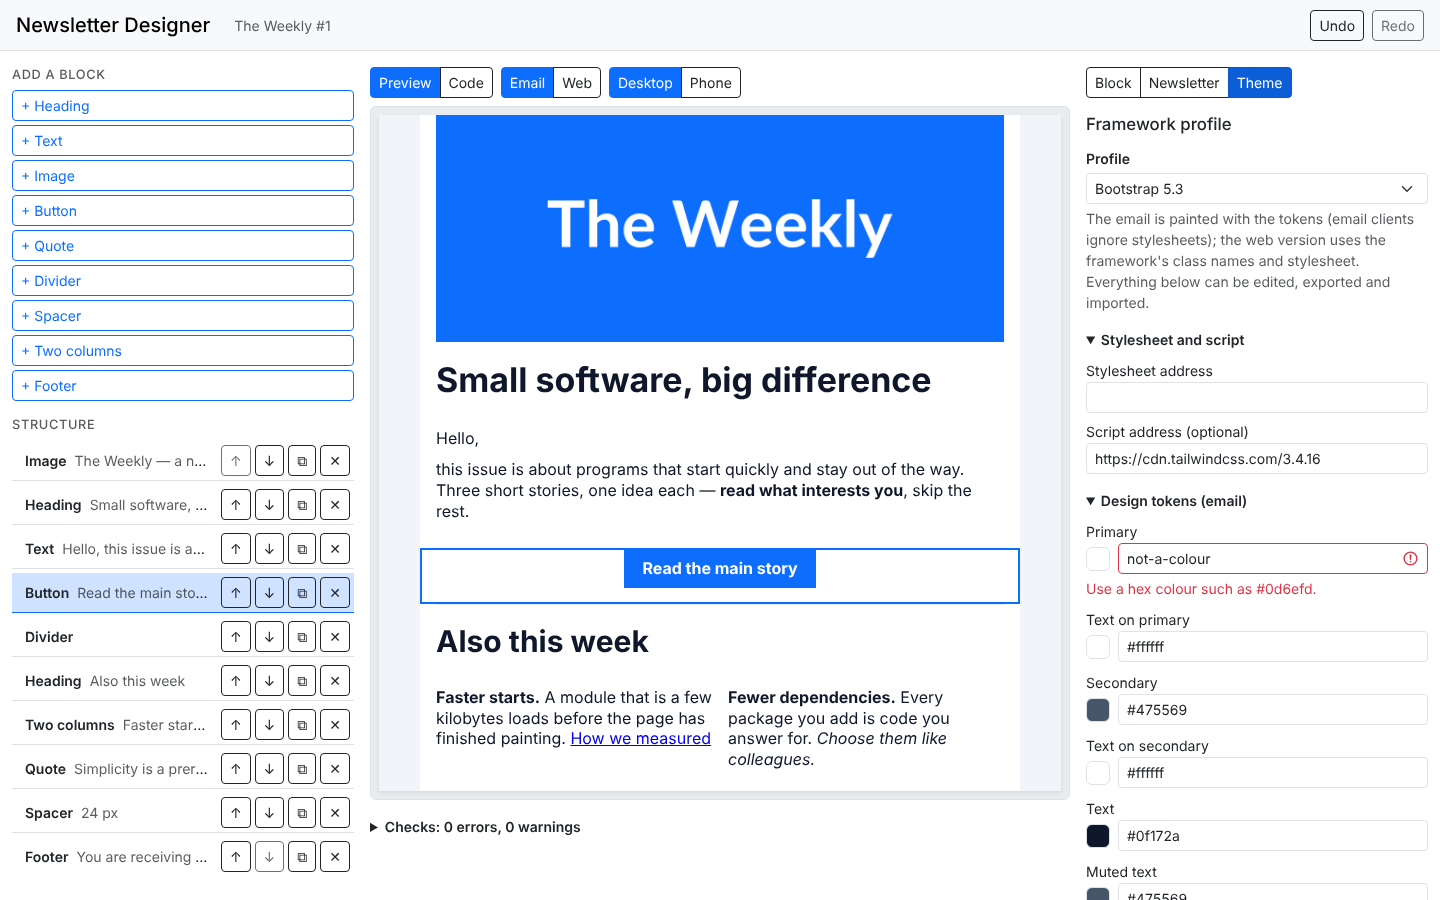
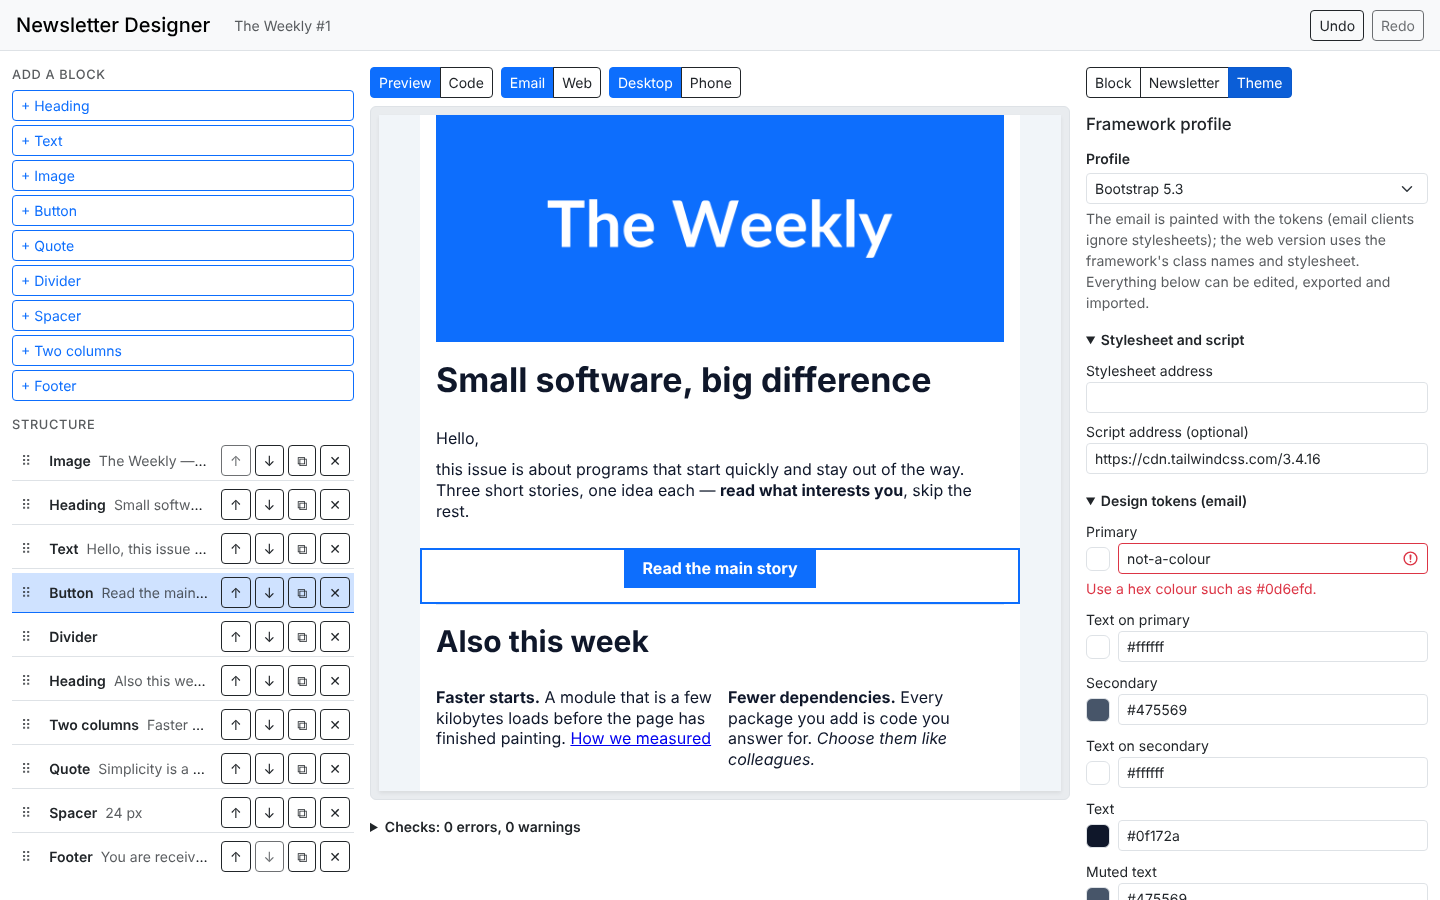
Drag a block of the structure list to another place
A handle at the left of each block: a press captures the pointer, a line shows where the block would drop, a ghost with its
name follows the pointer, Escape cancels, and the move is one undo step.  Where it drops is FSharp.Graphics.Interact (the
slot under the pointer, before / after / into by where in the slot the pointer is); the edit is Ops.drop of FSharp.Wasm.Edit.
The designer's history is FSharp.Wasm.Edit.History now, with typing still one step, instead of its own past and future.

The flat buttons (the handle and the select button of a block) get a focus ring: a Bootstrap button without a variant has none.

Tests: four drag checks in the suites (57, under .NET and as WasmGC) and a real pointer in Chromium: the ghost, the mark, the drop,
undo, Escape.  The Move buttons stay as the keyboard way.  Needs the compiler change that lets a host callback take six arguments
(fsharp-wasm 894ad2f), pinned in the next commit.

Claude-Session: https://claude.ai/code/session_018giDQBMs4aQChDX9jMK7Sg

diff --git a/web/designer.css b/web/designer.css
@@ -5,3 +5,5 @@
 h2 { font-size: .8rem; text-transform: uppercase; letter-spacing: .05em; color: var(--bs-secondary-color); margin-bottom: .5rem; }
 h3 { font-size: 1.05rem; margin-bottom: .75rem; }
 summary { cursor: pointer; }
+/* A Bootstrap button without a variant has no focus ring (its variants do); the flat ones of the outline show where the keyboard is. */
+.btn-flat:focus-visible { outline: 2px solid var(--bs-primary); outline-offset: 1px; }

diff --git a/README.md b/README.md
@@ -14,7 +14,7 @@ project as JSON. Everything runs in the browser; there is no server and nothing 
 | **Three outputs** | the **email** (the grid and components of [Foundation for Emails](https://github.com/foundation/foundation-emails), MIT, written as typed F#: nested `role="presentation"` tables, the 12-column grid that stacks below its breakpoint, every style inlined, a hidden preheader), the **web version** (semantic HTML with the framework's own class names), the **plain-text** alternative. |
 | **A configurable profile** | **Bootstrap 5.3** by default (its palette and type, and its class names for the web version), **Tailwind CSS 3** as the second profile, **Custom** for your own. A profile is design tokens + a class map + a stylesheet/script address; every part is editable, and a profile is a JSON file you can export and import. |
 | **Checks** | subject, preheader and language; alternative text for every image; button and text contrast (WCAG 1.4.3, computed from your tokens); heading order; vague link labels; a footer with an unsubscribe link and an address; Gmail's 102 KB clipping limit. Each finding names its block and jumps to it. |
-| **Editing** | click a block in the preview or the structure; move, duplicate, delete; undo and redo (typing into one field is one step); phone width; the project is kept in the browser and survives a reload. |
+| **Editing** | click a block in the preview or the structure; drag it by its handle to another place (a line shows where it drops; Escape cancels) or move it with the buttons; duplicate, delete; undo and redo (typing into one field is one step); phone width; the project is kept in the browser and survives a reload. |
 | **Keyboard and screen reader** | everything is reachable and named; changes are announced in a live region; axe-core (WCAG 2.0/2.1/2.2 A and AA) finds no violation on the block, newsletter and theme panels (`tests/e2e/designer.mjs`; automated checks find a minority of problems: a screen reader pass is still to do). |
 
 ### Which framework, and what "configurable" means
@@ -35,10 +35,10 @@ compile your own CSS and put its address in the stylesheet field.
 ## Run it
 
 ```bash
-git submodule update --init                    # lib/runtime (HTML/Elmish library + JS glue), lib/fsharp-wasm-core, lib/wasmecto
+git submodule update --init                    # lib/runtime (HTML/Elmish library + JS glue), lib/fsharp-wasm-core, lib/graphics, lib/wasmecto
 source build/env.sh                            # FSHARP_WASM_CORE_DIR
 
-# the 53 checks of the newsletter library (and the 29 of the libraries it uses, which run in fsharp-wasm-core), under .NET
+# the 57 checks of the newsletter library (and the 29 of the libraries it uses, which run in fsharp-wasm-core), under .NET
 bash build/test.sh dotnet
 
 # as WebAssembly GC: a compiler and wasm-tools
@@ -62,7 +62,7 @@ npm ci && node tests/e2e/designer.mjs         # the designer in Chromium (Playwr
 | `web/` | the page, a few lines of CSS, a local copy of Bootstrap 5.3.3 (MIT, `web/vendor/bootstrap`). The page does two things for the module: it relays clicks from the sandboxed preview frame and it starts downloads. |
 | `tests/Newsletter.Tests` | the suites, written with [Wasmecto](https://github.com/fsharp-wasm/fsharp-wasmecto); `Newsletter.WasmTests` compiles the same file to WasmGC. |
 | `tests/e2e/designer.mjs` | the compiled designer driven in Chromium: editing, undo, keyboard, import/export, reload, axe-core. |
-| `lib/runtime`, `lib/wasmecto` | submodules: the HTML/Elmish library and JS glue, the test framework. |
+| `lib/runtime`, `lib/graphics`, `lib/wasmecto` | submodules: the HTML/Elmish library and JS glue, the drag geometry (`FSharp.Graphics.Interact`: where a drag drops), the test framework. |
 
 The design decisions and what is not in the MVP are in [docs/design.md](docs/design.md).
 

diff --git a/CHANGELOG.md b/CHANGELOG.md
@@ -28,3 +28,12 @@
   newsletter no longer carries a JSON parser or the Ui sources. The JSON is the union of what the backend and the newsletter each had: a
   nesting limit and strict string rules (the backend's), the position of the first error and a pretty printer (the newsletter's).
 * 53 checks here, 29 in core for the libraries (82 together, from 77), under .NET and as WebAssembly GC.
+
+## Unreleased — dragging blocks
+
+* A block of the structure list is dragged by its handle: a press captures the pointer, a line shows where it would drop, a ghost with its name follows the
+  pointer, Escape cancels, and the move is one undo step. Where it drops is decided by `FSharp.Graphics.Interact` (`fsharp-wasm-graphics`: the slot under the
+  pointer, before / after / into by where in the slot it is); the edit itself is `Ops.drop` of `FSharp.Wasm.Edit` (`fsharp-wasm-core`).
+* The history of the designer is `FSharp.Wasm.Edit.History` (with the coalescing of typing into one step) instead of its own past and future lists.
+* The focus ring of the flat buttons (a Bootstrap button without a variant has none).
+* 57 checks under .NET and as WebAssembly GC (from 53); the designer driven in Chromium drags a block with a real pointer, cancels with Escape and undoes.

diff --git a/docs/design.md b/docs/design.md
@@ -45,7 +45,8 @@ that are still open, and this repository's CI builds with the compiler revision 
 
 ## Not in the MVP
 
-* No drag and drop: blocks move with buttons (reachable by keyboard); drag and drop needs pointer events the DSL does not expose yet.
+* Drag and drop moves the blocks of the structure list (the handle at the left of a block, Escape cancels, one undo step). Still missing: dragging a new block from
+  the palette into the list, and editing text in place in the preview; the Move buttons stay as the keyboard way.
 * No image upload or asset library: images are addresses (hosted by you); an email client cannot take a local file anyway.
 * No per-block colours or padding: the profile's tokens apply to the whole issue. Overriding them per block is the next feature.
 * No sending, no list management, no ESP integration: the export is the product. Merge tags (`{{unsubscribe_url}}`) pass through.
